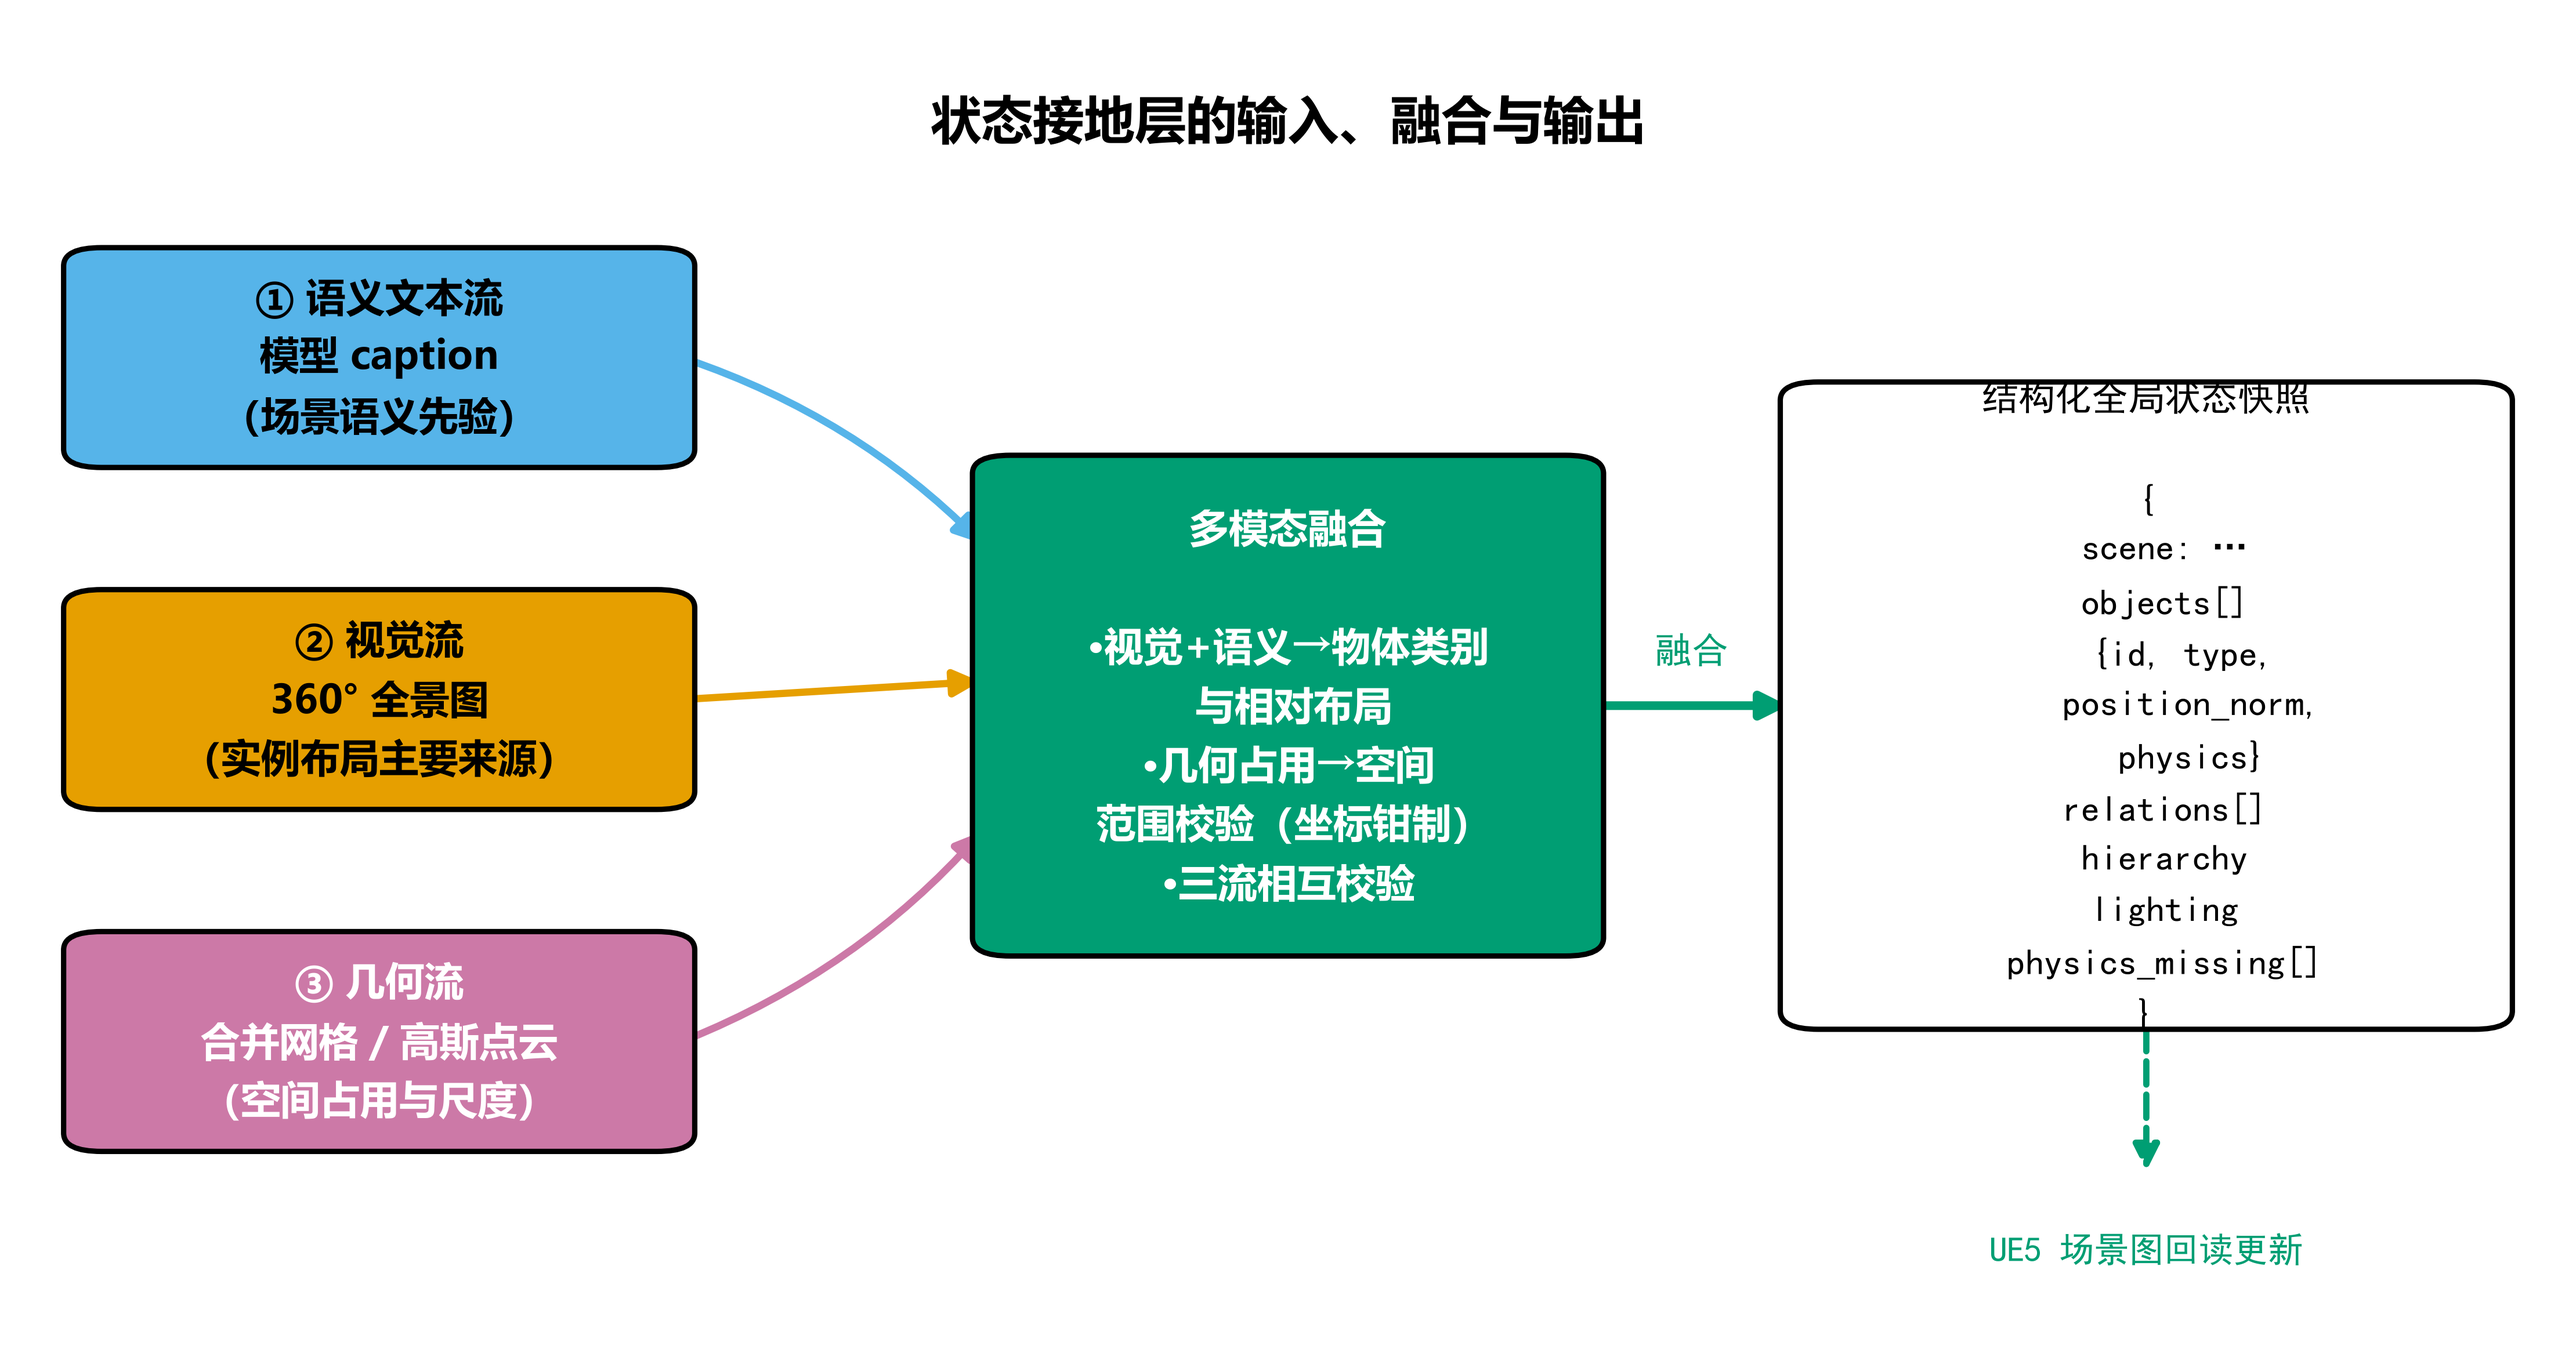
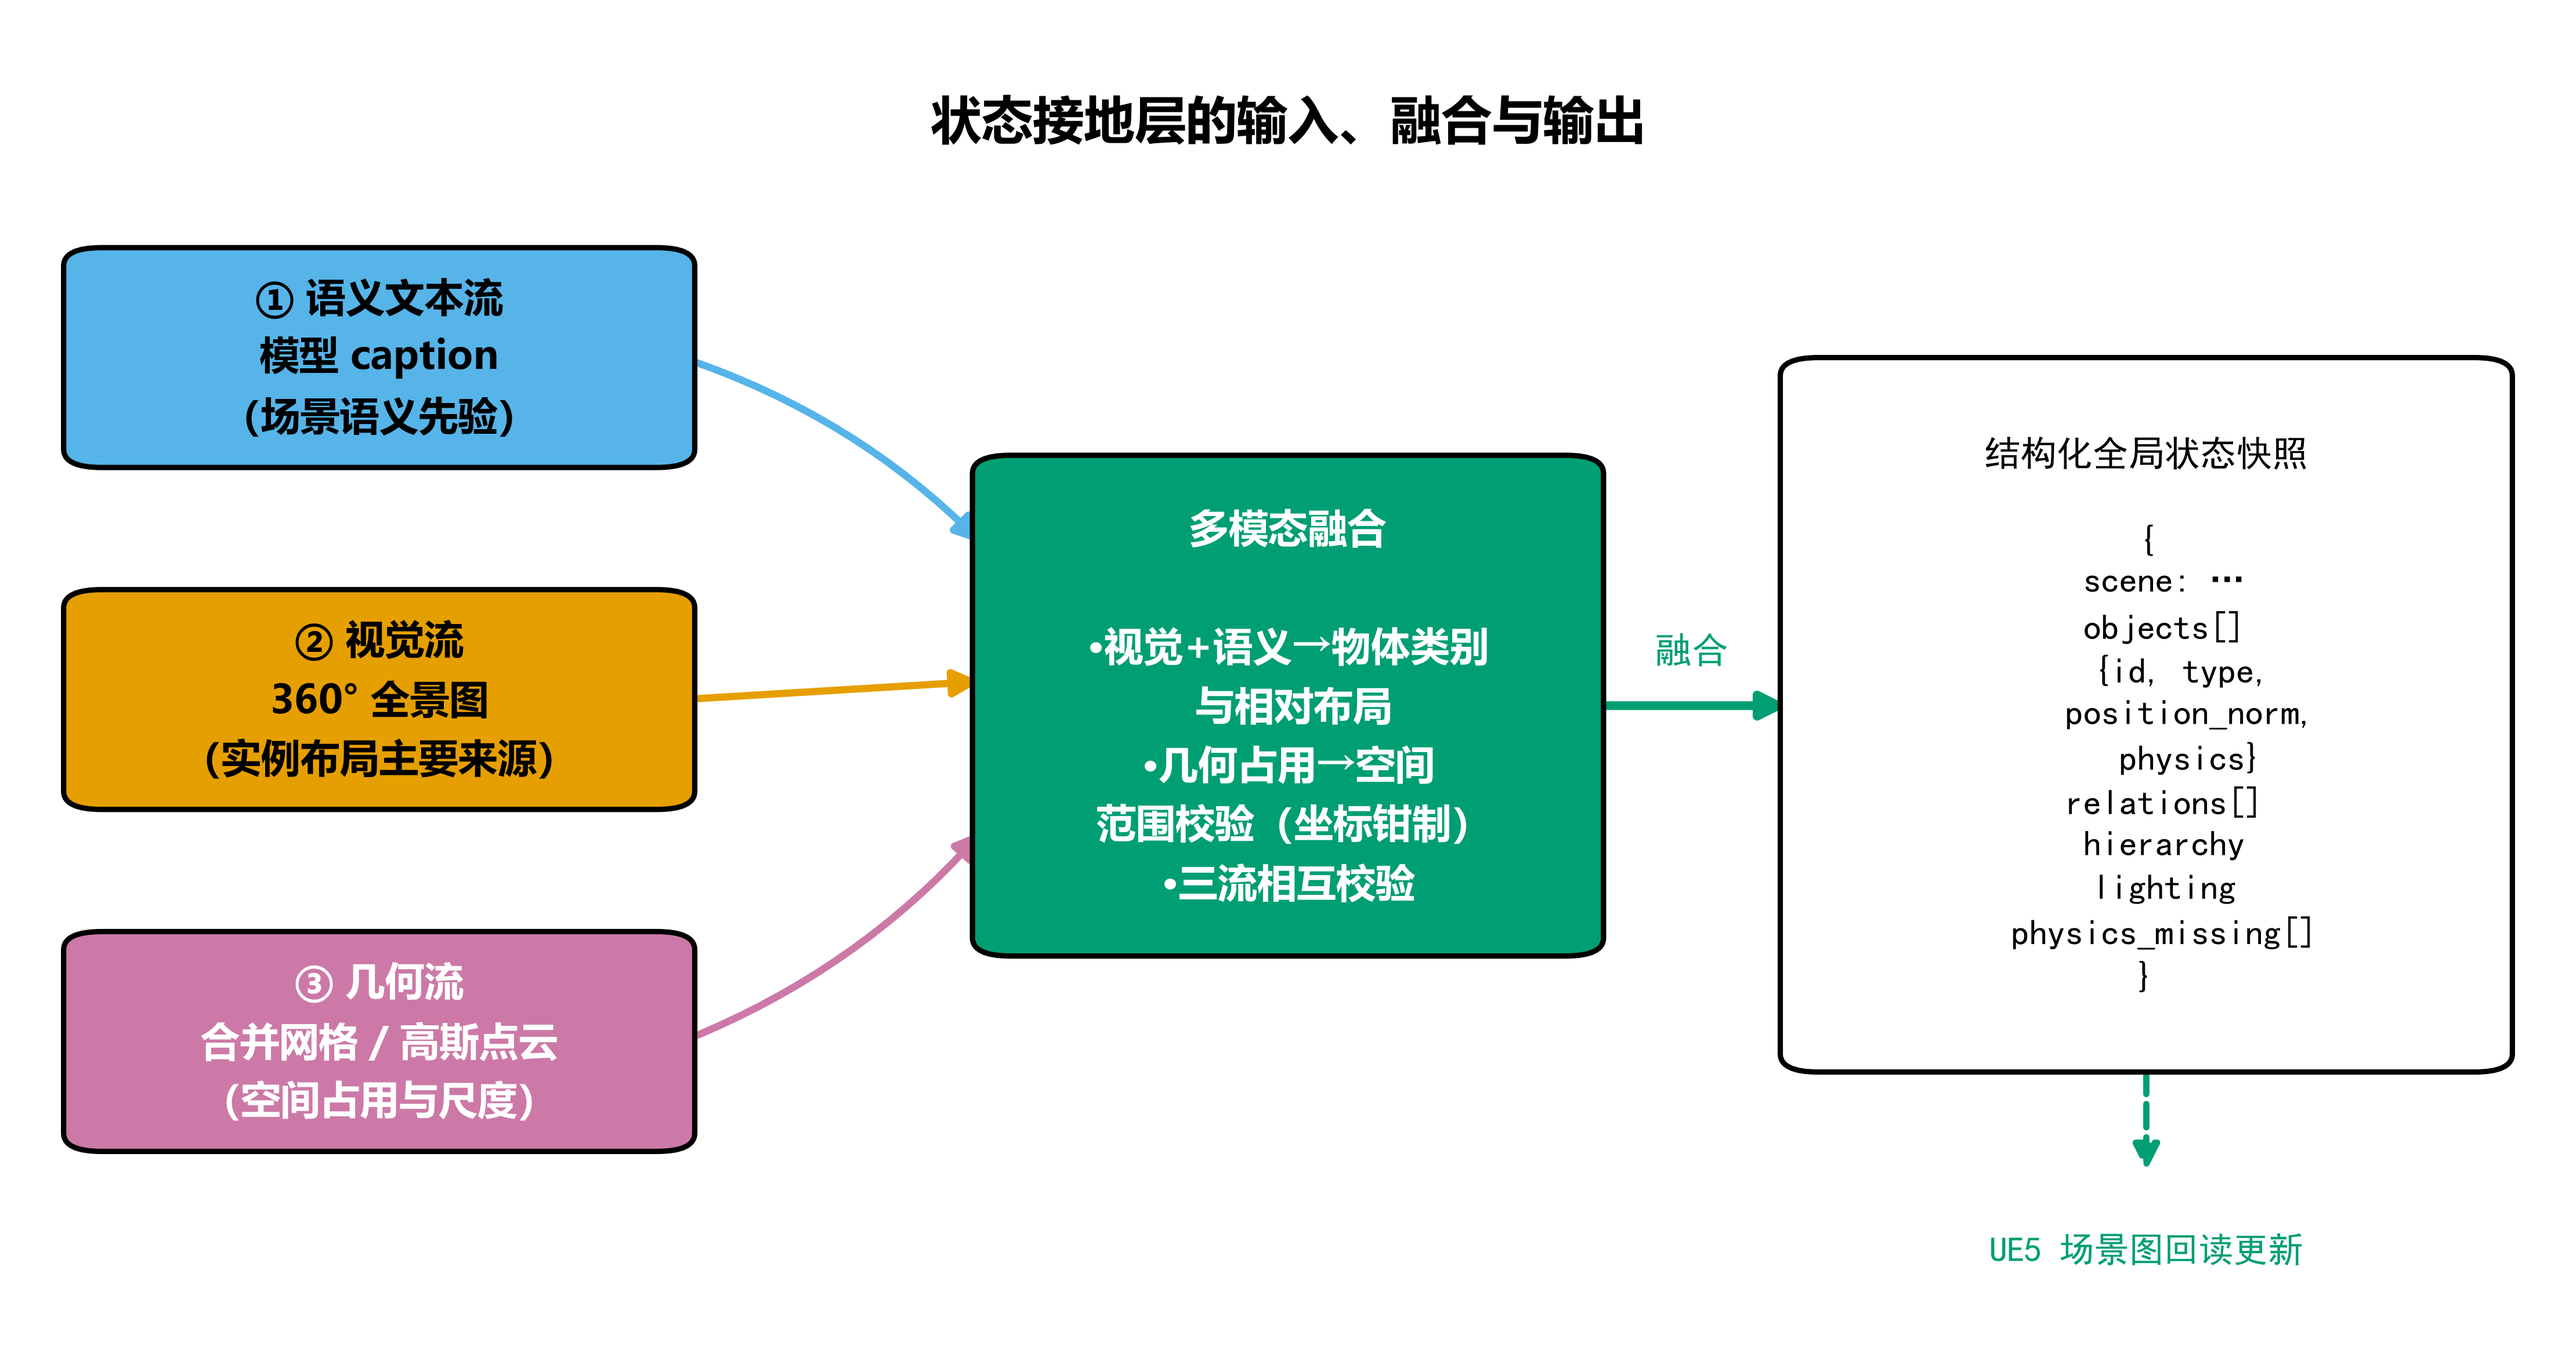
fix(fig2): 修复快照框内文字溢出（框高192px>186px 上下各溢3px）

Changed region(s): [[0.777, 0.3744, 0.9014, 0.7175], [0.6838, 0.7487, 0.9946, 0.8111], [0.6838, 0.2496, 0.9635, 0.3432]]

diff --git a/scripts/make_fig2.py b/scripts/make_fig2.py
@@ -11,13 +11,13 @@ OUT = os.path.dirname(os.path.abspath(__file__))
 OI = {"orange":"#E69F00","skyblue":"#56B4E9","green":"#009E73","yellow":"#F0E442",
       "blue":"#0072B2","vermillion":"#D55E00","purple":"#CC79A7","grey":"#999999"}
 
-def box(ax,x,y,w,h,text,fc,ec="black",fs=8.5,bold=False,tc="black",ls="-"):
+def box(ax,x,y,w,h,text,fc,ec="black",fs=8.5,bold=False,tc="black",ls="-",linespacing=1.4):
     ax.add_patch(FancyBboxPatch((x,y),w,h,boxstyle="round,pad=0.005,rounding_size=0.015",
         fc=fc,ec=ec,lw=1.1,ls=ls,zorder=2))
     ax.text(x+w/2,y+h/2,text,ha="center",va="center",fontsize=fs,
             fontweight="bold" if bold else "normal",
             fontfamily="Microsoft YaHei" if bold else None,
-            color=tc,zorder=3,linespacing=1.4)
+            color=tc,zorder=3,linespacing=linespacing)
 def arrow(ax,p1,p2,color="black",lw=1.3,ls="-",rad=0.0,z=1):
     ax.add_patch(FancyArrowPatch(p1,p2,arrowstyle="-|>",mutation_scale=11,lw=lw,color=color,
         linestyle=ls,zorder=z,connectionstyle=f"arc3,rad={rad}",shrinkA=1,shrinkB=1))
@@ -38,13 +38,13 @@ arrow(ax,(0.26,0.505),(0.38,0.52),color=OI["orange"],lw=1.5)
 arrow(ax,(0.26,0.225),(0.38,0.40),color=OI["purple"],lw=1.5,rad=0.12)
 
 # 输出快照
-box(ax,0.70,0.24,0.28,0.52,
+box(ax,0.70,0.205,0.28,0.575,
     "结构化全局状态快照\n\n{\n  scene: …\n  objects[]\n    {id, type,\n     position_norm,\n     physics}\n  relations[]\n  hierarchy\n  lighting\n  physics_missing[]\n}",
-    "#FFFFFF",fs=7.6,ec="black")
+    "#FFFFFF",fs=7.4,ec="black",linespacing=1.22)
 arrow(ax,(0.62,0.50),(0.70,0.50),color=OI["green"],lw=1.8)
 ax.text(0.66,0.535,"融合",fontsize=7.5,color=OI["green"],ha="center")
 # 回写（虚线走快照框正下方空白区，文字横排置于箭头下方，避免与箭头/快照框重叠）
-arrow(ax,(0.84,0.24),(0.84,0.115),color=OI["green"],lw=1.3,ls="--")
+arrow(ax,(0.84,0.205),(0.84,0.115),color=OI["green"],lw=1.3,ls="--")
 ax.text(0.84,0.055,"UE5 场景图回读更新",fontsize=7.2,color=OI["green"],ha="center",va="center")
 
 plt.subplots_adjust(left=0.01,right=0.99,top=0.93,bottom=0.03)
